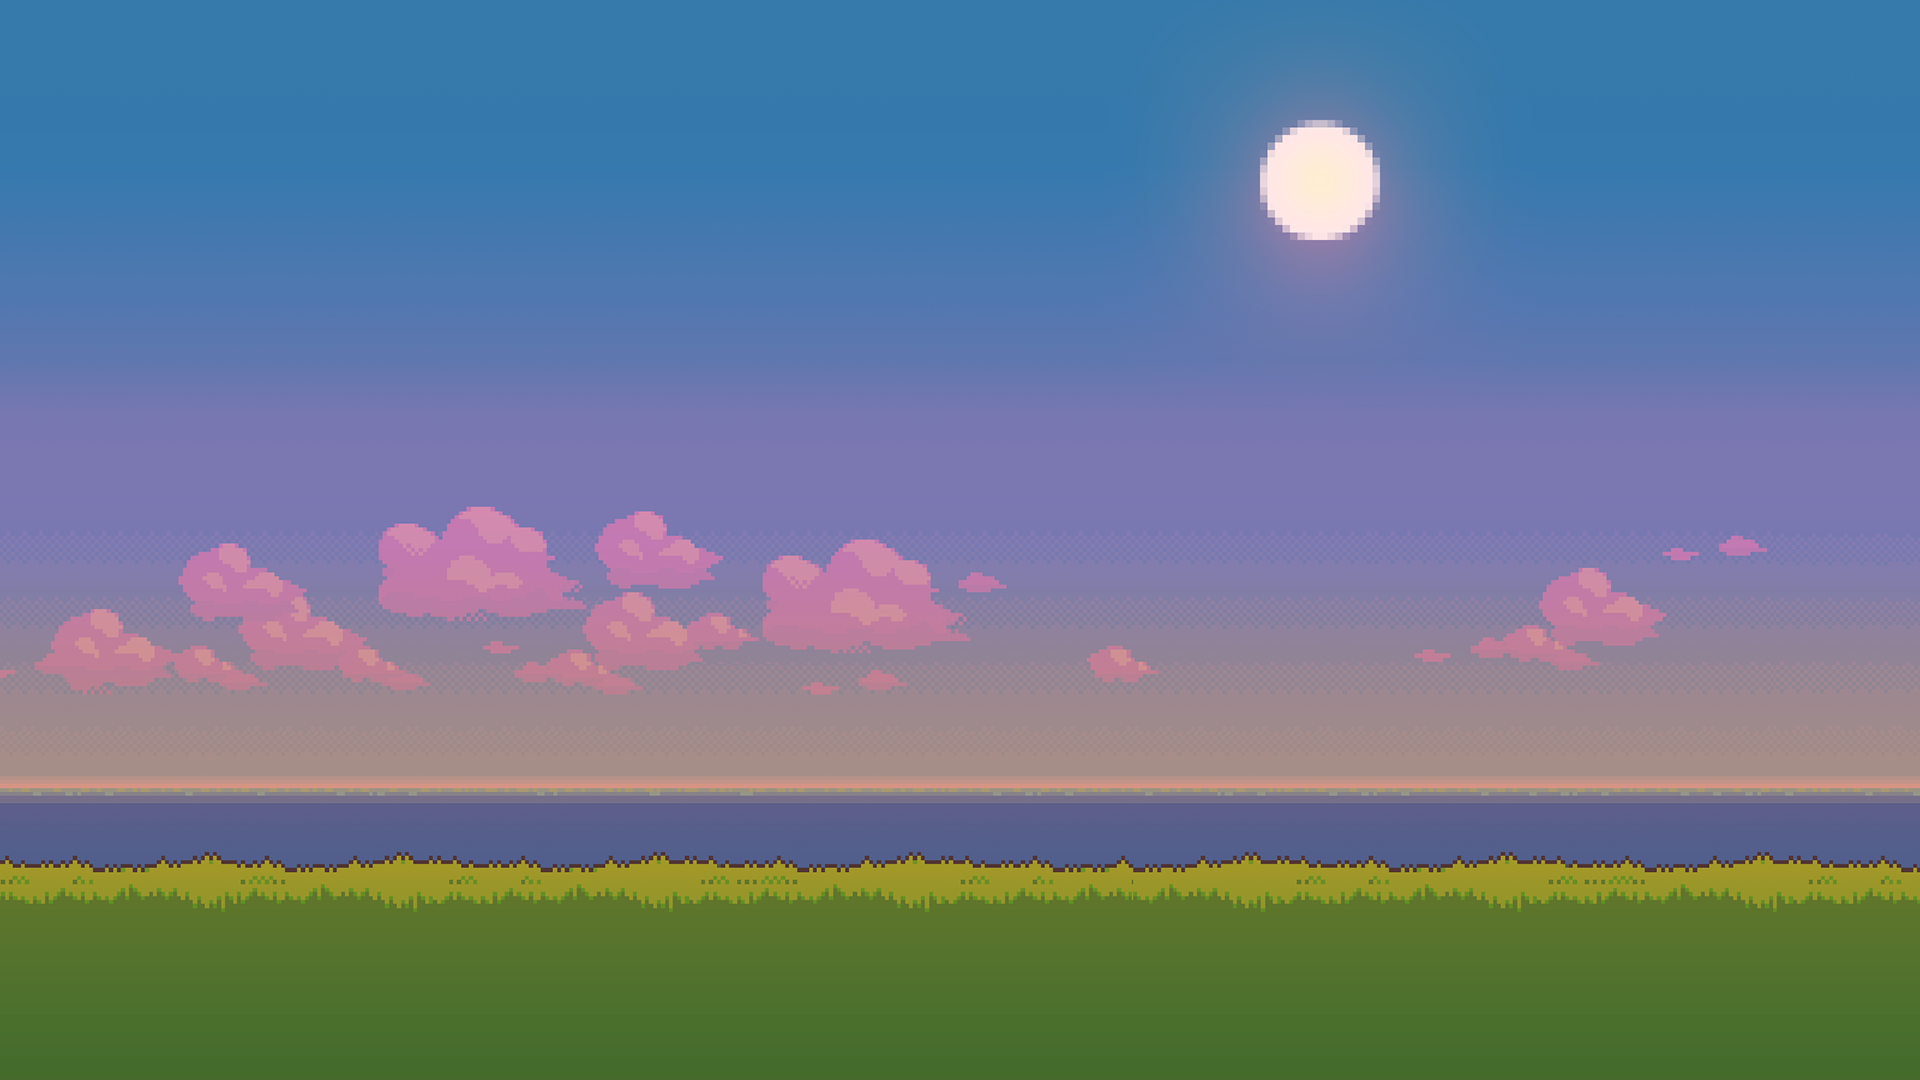
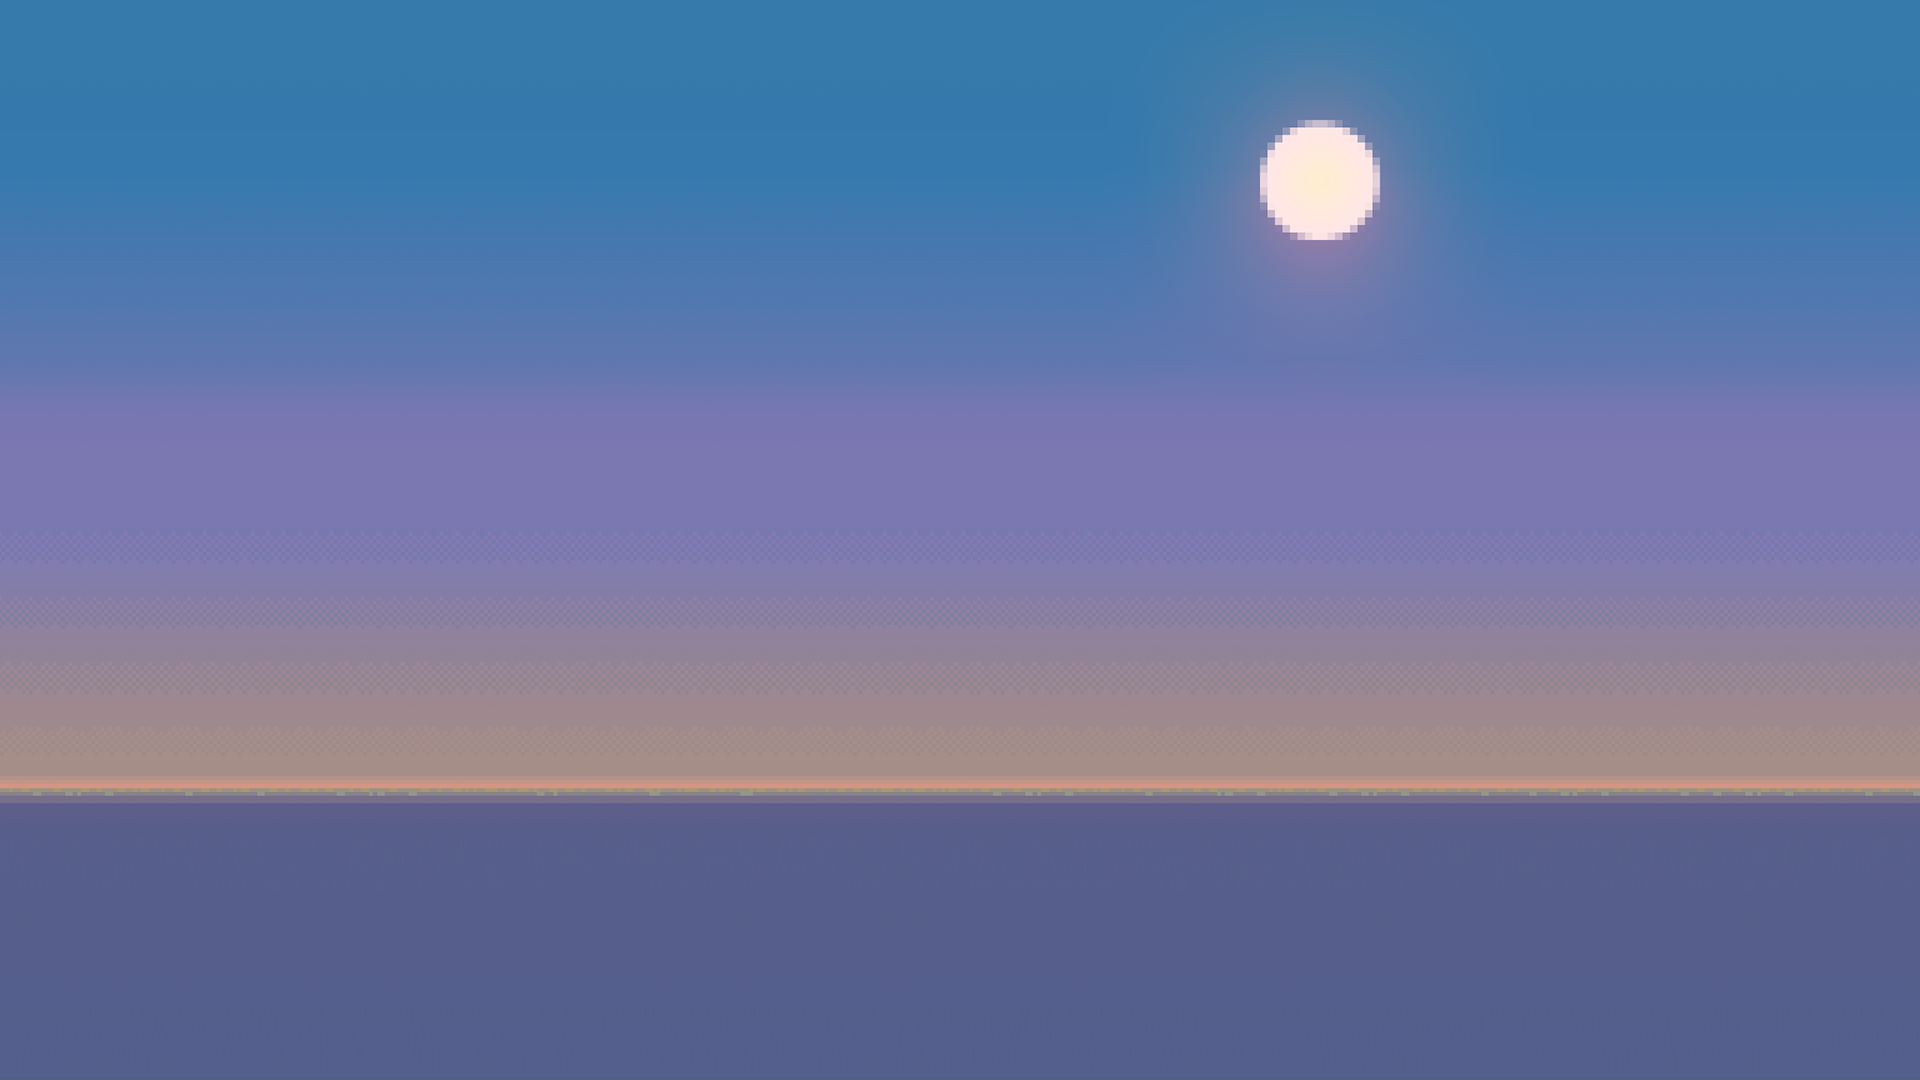
Add new images

diff --git a/static/train.html b/static/train.html
@@ -83,52 +83,20 @@ canvas {
   z-index: -13;
 }
 </style>
-<!--
-<script type="text/javascript" src="js/socket.io.js"></script>
-<script>
-var socket = 1 ? io() : io(":5000");
 
-socket.on('connect', function(){
-
-});
-
-socket.on('event', function(data){
-  console.log(data)
-});
-
-socket.on('json', function(message){
-  //console.log(message)
-  var type = message["type"]
-  var data = message["data"]
-  if (type == "problems") {
-  }
-});
-
-socket.on('message', function(data){
-  console.log(data)
-});
-
-socket.on('disconnect', function(){
-
-});
-
-window.addEventListener("beforeunload", function() {
-  console.log("Disconnecting...")
-  socket.disconnect();
-});
-
-</script>-->
 </head>
 <body>
 
-adjust speed with bpm
+
 
 <canvas id="canvas" width="640" height="480"></canvas>
 
 <div id="app">
 
 </div>
+<!--
 <iframe width="200" height="100" src="https://www.youtube.com/embed/GOyGWMYqL1I" frameborder="0" allow="accelerometer; autoplay; encrypted-media; gyroscope; picture-in-picture" allowfullscreen></iframe>
+-->
 <script>
 
 var actives = []
@@ -136,7 +104,8 @@ var groups = {"/air":[], "/ground":[]}
 
 var ctx = document.getElementById("canvas").getContext("2d")
 
-var speed = 20
+//TODO: adjust speed with bpm
+var speed = 100
 var acceleration = 0.001
 
 var distance = 0
@@ -158,18 +127,25 @@ function draw() {
   ctx.fillStyle = "green"
   ctx.fill()
 
-  ctx.drawImage(resize(window["background"], w, h), 0, 0)
+  ctx.drawImage(window["background"], 0, 0)
 
   var g1 = distance%(2*w) == distance%(2*w)%w ? distance%(2*w) : distance%(2*w)-2*w
   var g2 = (distance-w)%(2*w) == (distance-w)%(2*w)%w ? (distance-w)%(2*w) : (distance-w)%(2*w)-2*w
 
-  ctx.drawImage(resize(window["grass"], w, h), g1, 0)
-  ctx.drawImage(resize(window["grass"], w, h), g2, 0)
+  ctx.drawImage(window["grass"], g1, 0)
+  ctx.drawImage(window["grass"], g2, 0)
+
+  // sort to draw fastest last (on top)
+  actives.sort((a,b) => a[3] > b[3] ? 1 : -1)
 
   for (var active of actives) {
     if (active.length > 1) {
-      active[0] += speed*active[3]//make faster as it nears horizontal visual center?
-      ctx.drawImage(active[2], active[0], active[1])
+      active[0] += speed*active[3]//make faster as it nears horizontal visual center
+      try {
+        ctx.drawImage(active[2], active[0], active[1])
+      } catch (error) {
+        console.log(error)
+      }
     }
   }
 
@@ -177,16 +153,17 @@ function draw() {
     return active[0] < w*1.5
   })
 
-  ctx.drawImage(resize(window["glass"], w, h), 0, 0)
+  ctx.drawImage(window["glass"], 0, 0)
 
   speed += acceleration
 
-  distance += speed
+  distance += speed * 0.1
 }
 
 function resizeFactor(img, factor) {
-  var oc = document.createElement('canvas'),
-    octx = oc.getContext('2d');
+  //these seem to have been global to not be deallocated before drawing
+  oc = document.createElement('canvas')
+  octx = oc.getContext('2d');
 
   oc.width = img.width * factor;
   oc.height = img.height * factor;
@@ -196,8 +173,8 @@ function resizeFactor(img, factor) {
 }
 
 function resize(img, w, h) {
-  var oc = document.createElement('canvas'),
-    octx = oc.getContext('2d');
+  oc = document.createElement('canvas')
+  octx = oc.getContext('2d');
 
   oc.width = w
   oc.height = h
@@ -205,7 +182,6 @@ function resize(img, w, h) {
 
   return oc
 }
-
 
 function randint(min, max) {
     min = Math.ceil(min);
@@ -220,12 +196,18 @@ function loadNewImage(path, name) {
   img.onload = function() {
     if (name == undefined) {
       groups[path].push(img)
+    } else {
+      var w = window.innerWidth;
+      var h = window.innerHeight;
+      console.log(w,h)
+      window[name] = resize(img, w, h)
     }
     console.log("Loaded", img.src)
   }
-  img.src = path
+  img.src = path + "?time=" + new Date().getTime() // cachebreaker
 
   if (name != undefined) {
+
     window[name] = img
   }
 }
@@ -238,10 +220,12 @@ function loadWrapper(path) {
   }
 }
 
+//TODO add age to group list elements, remove them after some time
+
 function makeOneActive(path) {
 
-  var r = randint(0, groups[path].length+1)
-  if (r == groups[path].length) {
+  var r = randint(0, (groups[path].length+1)*1.1)
+  if (r >= groups[path].length) {
     loadWrapper(path)()
   } else {
 
@@ -249,19 +233,23 @@ function makeOneActive(path) {
     var w = window.innerWidth;
     var h = window.innerHeight;
 
+    var img = groups[path][r]
+
     var x = -Math.random()*w
     if (path == "/ground") {
-      var y = Math.random()*h/2*1.2+h/2*0.95
-      var factor = y/(h/2*0.95)
+      var factor = Math.random()
+      var y = factor*h/5+4*h/5 - img.height*4/5*factor
     } else {
-      var y = Math.random()*h/2
-      var factor = 1-y/(h/2)
+      var factor = 1-Math.random()
+      var y = (1-factor)*h*(4/5)
     }
 
-    var img = groups[path][r]
 
     img = resizeFactor(img, factor)
 
+    if (path == "/air") {
+      factor /= 2
+    }
     console.log(factor)
     actives.push([x,y,img,Math.pow(factor, 2)])
   }
@@ -277,10 +265,10 @@ loadNewImage("/img/glass.png", "glass")
 loadNewImage("/img/background.png", "background")
 loadNewImage("/img/grass.png", "grass")
 
-setInterval(makeOneActiveWrapper("/air"), 1000)
-setInterval(makeOneActiveWrapper("/ground"), 1000)
+setInterval(makeOneActiveWrapper("/air"), 500)
+setInterval(makeOneActiveWrapper("/ground"), 500)
 
-setInterval(draw, 20)
+setInterval(draw, 25)
 
 </script>
 </body>

diff --git a/train.py b/train.py
@@ -24,7 +24,9 @@ def img_path(path):
 
 @app.route('/ground')
 def img_ground():
-    return send_from_directory("static", choice(imagesWith("ground_")))
+    path = choice(imagesWith("ground_"))
+    print(path)
+    return send_from_directory(*os.path.split(path))
 
 @app.route('/air')
 def img_air():

diff --git a/static/img/scale.py b/static/img/scale.py
@@ -1,0 +1,9 @@
+from glob import glob
+from PIL import Image
+
+for path in glob("air_pink*.png"):
+	img = Image.open(path)
+	wh = img.size
+	wh = [x*2 for x in wh]
+	img = img.resize(wh, Image.NEAREST)
+	img.save(path)

diff --git a/static/scale.py b/static/scale.py
@@ -1,0 +1,9 @@
+from glob import glob
+from PIL import Image
+
+for path in glob("ground_*.png"):
+	img = Image.open(path)
+	wh = img.size
+	wh = [x*2 for x in wh]
+	img = img.resize(wh, Image.NEAREST)
+	img.save(path)
